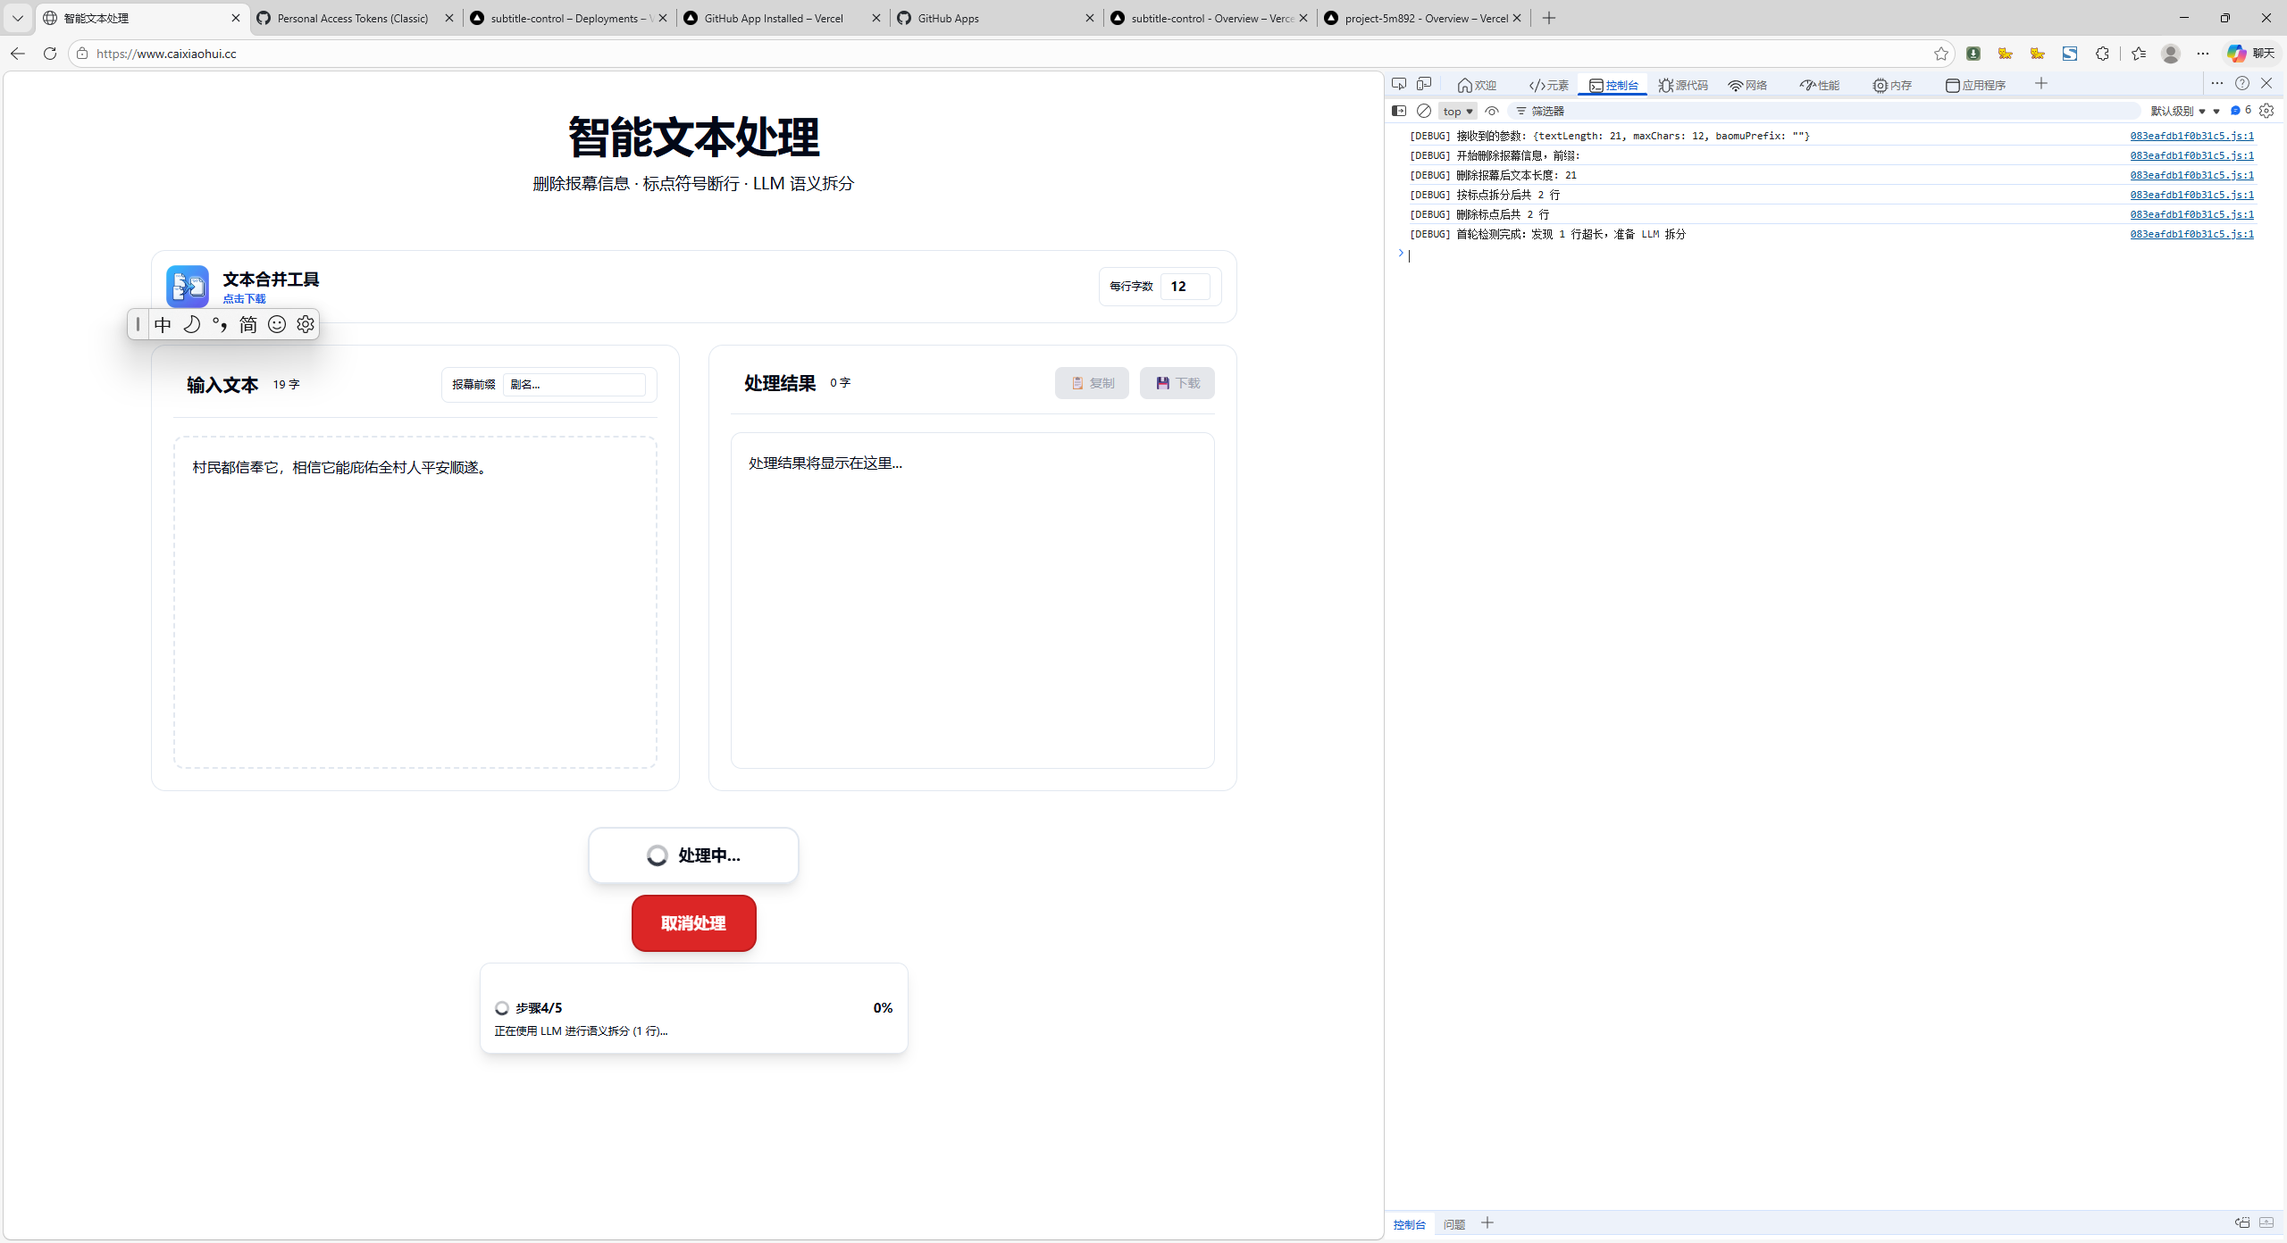
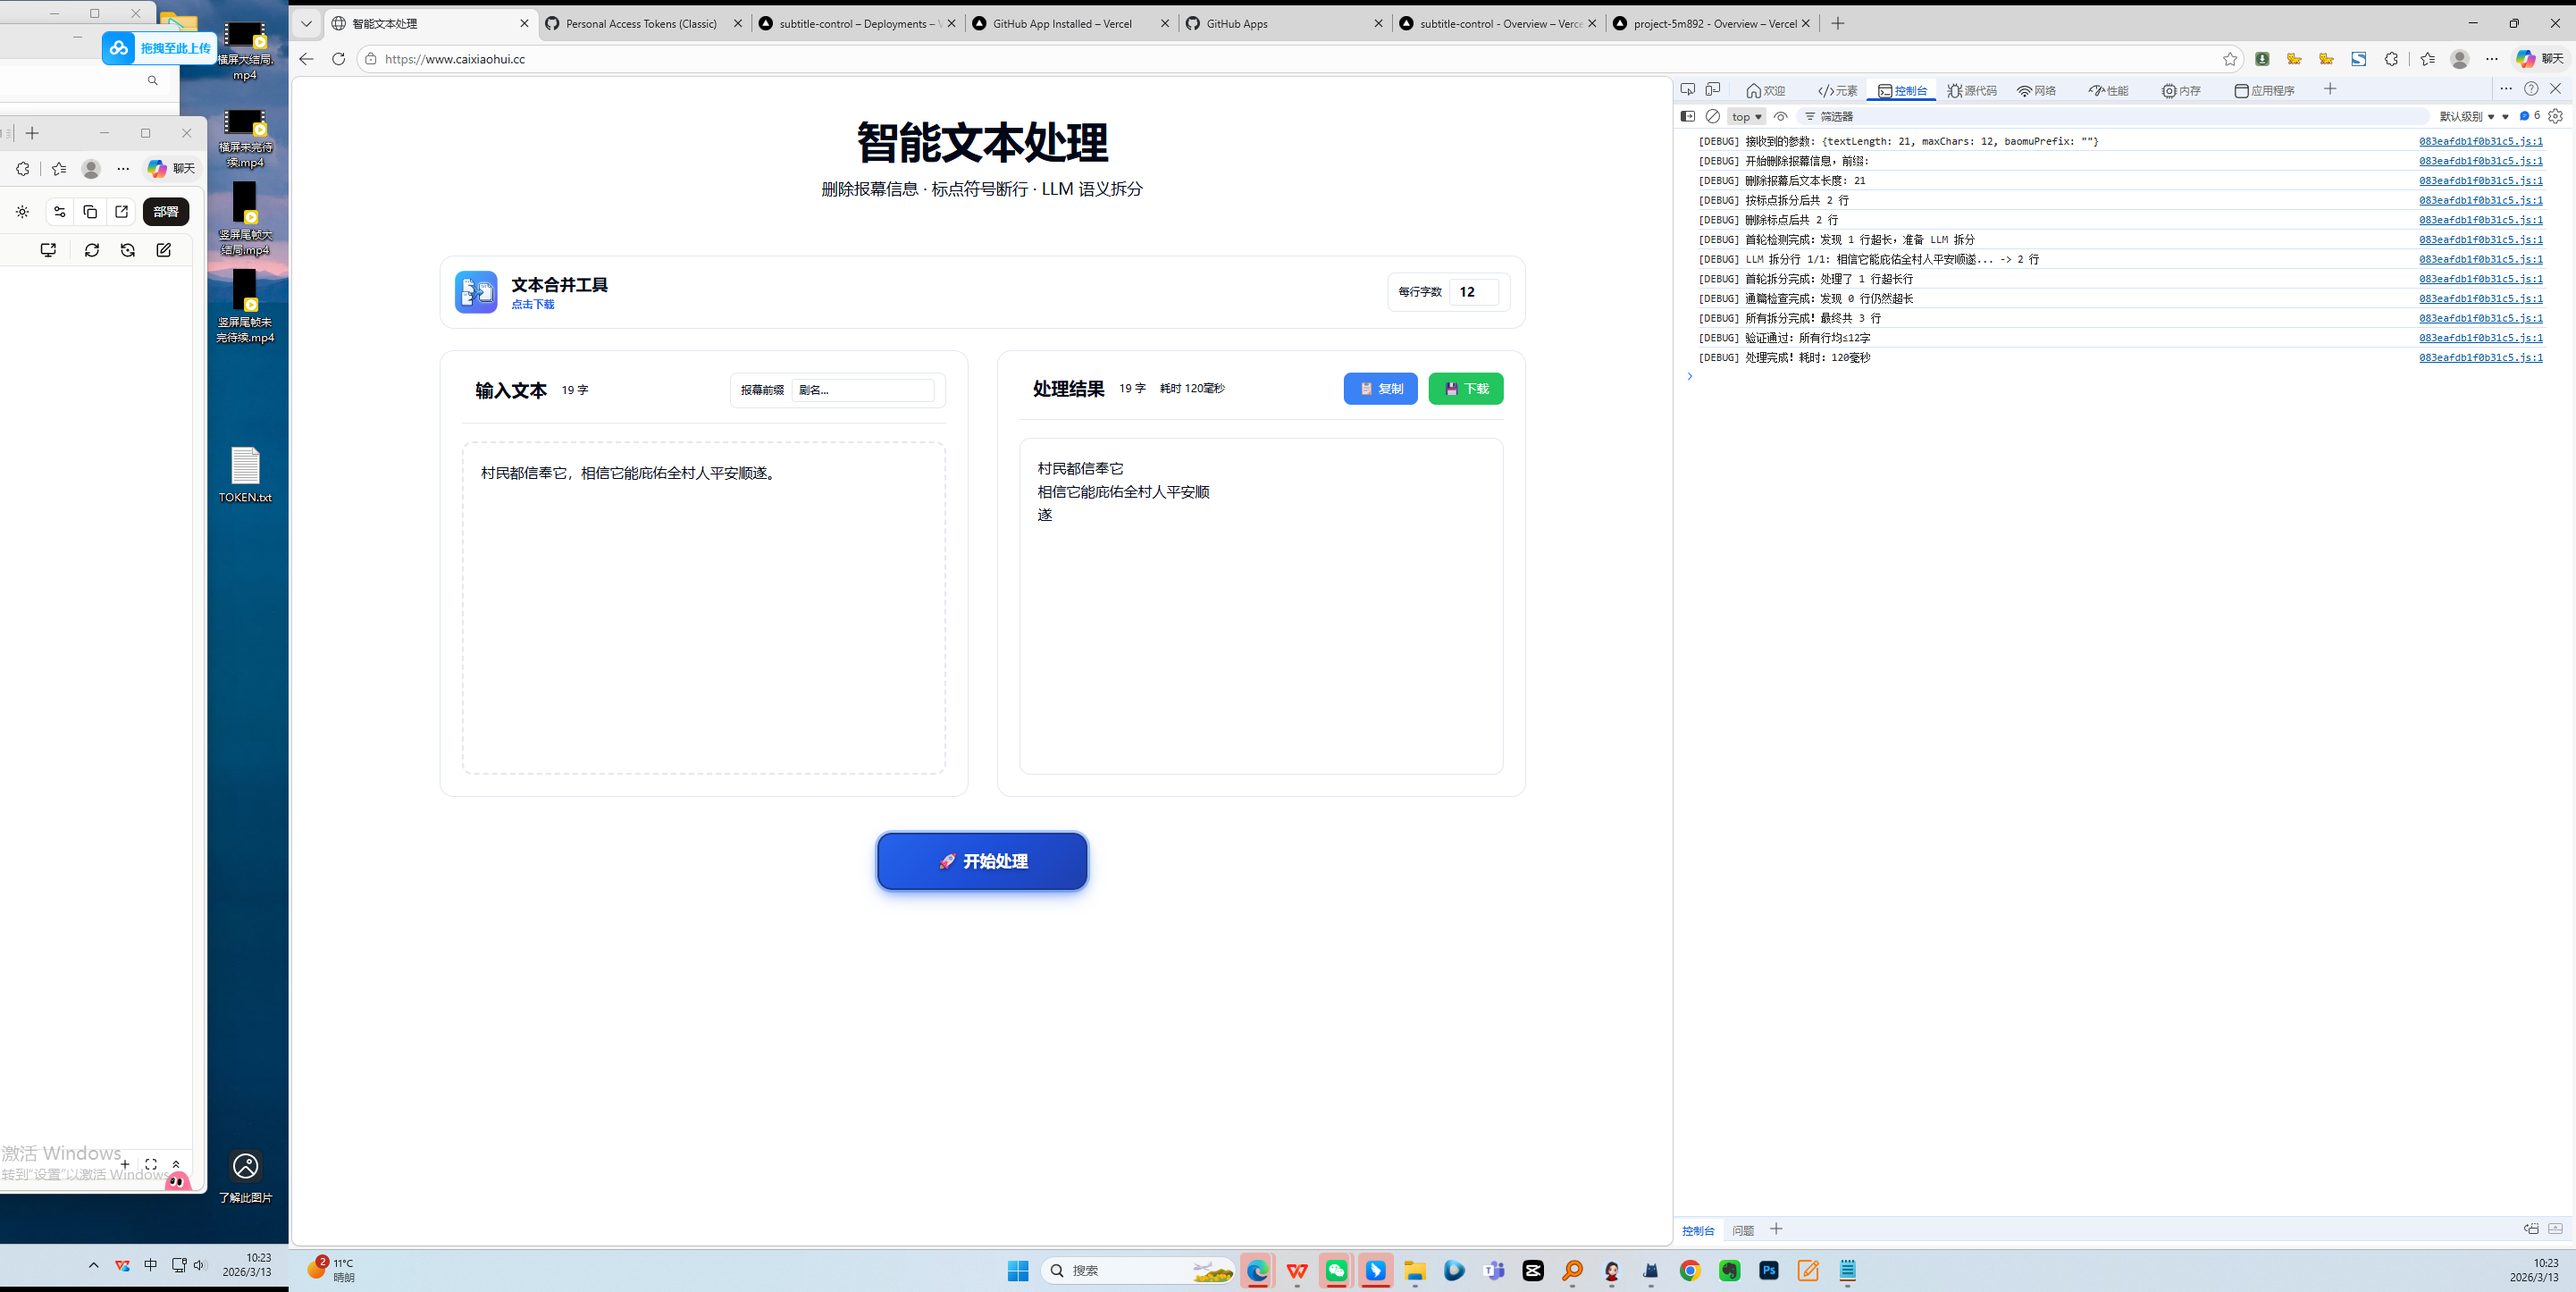
feat: 使用基于规则的语义拆分替代LLM，确保成语保持完整

diff --git a/src/app/api/process/splitByRules.ts b/src/app/api/process/splitByRules.ts
@@ -1,0 +1,175 @@
+// 基于语义规则的拆分算法
+
+// 常见成语和固定短语
+const COMMON_PHRASES = [
+  '平安顺遂', '兴高采烈', '坚持不懈', '恭恭敬敬', '磕了三个头',
+  '救了三个儿童', '对着老槐树', '微微发红', '额头磕得微微发红',
+  '三个头', '三个落水儿童', '见义勇为奖', '获得见义勇为奖',
+  '重生反击', '德国绑架', '内部高息', '理财的名义',
+  '内部高息理财', '林浩手下', '手中的人', '高息理财',
+  '内部高息', '以内部', '高息理财的名义', '磕了三',
+  '个头', '三个', '头', '相信它能', '庇佑全村人',
+  '特意停下脚步', '恭恭敬敬对着', '对着老槐树磕',
+  '老槐树磕了', '磕了三个', '额头磕得', '磕得微微',
+  '微微发红', '村民都信奉它', '相信它能庇佑',
+  '庇佑全村人平安', '全村人平安顺遂'
+];
+
+// 判断是否为中文字符
+function isChinese(char: string): boolean {
+  return /[\u4e00-\u9fa5]/.test(char);
+}
+
+// 统计中文字符数
+function countChineseChars(text: string): number {
+  let count = 0;
+  for (const char of text) {
+    if (isChinese(char)) {
+      count++;
+    }
+  }
+  return count;
+}
+
+// 检查文本是否包含常见成语或短语
+function containsPhrase(text: string): string | null {
+  for (const phrase of COMMON_PHRASES) {
+    if (text.includes(phrase)) {
+      return phrase;
+    }
+  }
+  return null;
+}
+
+// 按语义规则拆分
+export function splitByRules(line: string, maxChars: number): string[] {
+  console.log(`[规则拆分] 开始拆分，文本长度: ${countChineseChars(line)}字，限制: ${maxChars}字`);
+  console.log(`[规则拆分] 文本内容: ${line}`);
+
+  // 如果文本长度 ≤ maxChars，直接返回
+  if (countChineseChars(line) <= maxChars) {
+    console.log(`[规则拆分] 文本未超限，直接返回`);
+    return [line];
+  }
+
+  const result: string[] = [];
+  let remaining = line;
+
+  while (countChineseChars(remaining) > maxChars) {
+    let bestSplitIndex = -1;
+    let bestScore = -Infinity;
+
+    // 策略1：优先在成语边界拆分
+    for (const phrase of COMMON_PHRASES) {
+      const index = remaining.indexOf(phrase);
+      if (index !== -1) {
+        // 尝试在成语之前拆分
+        const before = remaining.substring(0, index);
+        if (countChineseChars(before) > 0 && countChineseChars(before) <= maxChars) {
+          const score = countChineseChars(before);
+          if (score > bestScore) {
+            bestScore = score;
+            bestSplitIndex = index;
+          }
+        }
+      }
+    }
+
+    // 策略2：在语义边界拆分（主谓之间、谓宾之间）
+    if (bestSplitIndex === -1) {
+      // 优先在这些位置拆分：
+      // - 逗号、句号等标点之后
+      // - "的"、"地"、"得"之后
+      // - "了"、"着"、"过"之后
+      const splitChars = ['，', '。', '！', '？', '的', '地', '得', '了', '着', '过', '和', '与', '及'];
+      for (let i = maxChars - 2; i >= 0; i--) {
+        if (splitChars.includes(remaining[i])) {
+          bestSplitIndex = i + 1;
+          break;
+        }
+      }
+    }
+
+    // 策略3：在字符边界拆分（最后手段）
+    if (bestSplitIndex === -1) {
+      bestSplitIndex = maxChars;
+    }
+
+    // 拆分
+    const part = remaining.substring(0, bestSplitIndex);
+    result.push(part);
+    remaining = remaining.substring(bestSplitIndex);
+
+    console.log(`[规则拆分] 拆分: "${part.substring(0, 10)}..." (长度: ${countChineseChars(part)}字)`);
+  }
+
+  // 添加剩余部分
+  if (remaining) {
+    result.push(remaining);
+  }
+
+  console.log(`[规则拆分] 拆分结果: ${JSON.stringify(result)}`);
+
+  // 后处理：检测并修复被拆分的成语
+  const fixedResult = fixSplitPhrases(result, maxChars);
+  console.log(`[规则拆分] 修复后结果: ${JSON.stringify(fixedResult)}`);
+
+  return fixedResult;
+}
+
+// 后处理：检测并修复被拆分的成语和固定短语
+function fixSplitPhrases(lines: string[], maxChars: number): string[] {
+  const result: string[] = [...lines];
+  let fixed = true;
+
+  while (fixed) {
+    fixed = false;
+
+    for (let i = 0; i < result.length - 1; i++) {
+      const currentLine = result[i];
+      const nextLine = result[i + 1];
+      
+      // 检查两行合并后是否包含常见成语或短语
+      const combined = currentLine + nextLine;
+      
+      // 检查是否有常见短语被拆分
+      let foundPhrase = '';
+      for (const phrase of COMMON_PHRASES) {
+        if (combined.includes(phrase)) {
+          foundPhrase = phrase;
+          break;
+        }
+      }
+      
+      if (foundPhrase) {
+        console.log(`[规则拆分] 发现被拆分的短语: "${foundPhrase}"`);
+        console.log(`[规则拆分] 合并前: "${currentLine}" + "${nextLine}"`);
+        
+        // 尝试在短语的边界拆分
+        const phraseIndex = combined.indexOf(foundPhrase);
+        const beforePhrase = combined.substring(0, phraseIndex);
+        const afterPhrase = combined.substring(phraseIndex + foundPhrase.length);
+        
+        // 重新构建结果
+        const newLines: string[] = [];
+        if (beforePhrase) newLines.push(beforePhrase);
+        newLines.push(foundPhrase); // 保持短语完整
+        if (afterPhrase) newLines.push(afterPhrase);
+        
+        // 检查每行是否超过 maxChars
+        const allValid = newLines.every(line => countChineseChars(line) <= maxChars);
+        
+        if (allValid) {
+          console.log(`[规则拆分] 合并后: ${JSON.stringify(newLines)}`);
+          result.splice(i, 2, ...newLines);
+          fixed = true;
+          break;
+        } else {
+          console.log(`[规则拆分] 合并后超出字数限制，跳过`);
+        }
+      }
+    }
+  }
+  
+  return result;
+}

diff --git a/src/app/api/process/route.ts b/src/app/api/process/route.ts
@@ -1,5 +1,6 @@
 import { NextRequest } from 'next/server';
 import { LLMClient, Config, HeaderUtils } from 'coze-coding-dev-sdk';
+import { splitByRules } from './splitByRules';
 
 // 报幕信息正则模式
 const BAOMU_PATTERNS = [
@@ -152,8 +153,21 @@ function optimizeAfterSplit(lines: string[], maxChars: number): string[] {
   return result;
 }
 
-// 使用 LLM 进行语义拆分
+// 使用基于规则的语义拆分（替代 LLM）
+function splitByRulesWrapper(line: string, maxChars: number): string[] {
+  try {
+    return splitByRules(line, maxChars);
+  } catch (error) {
+    console.error('规则拆分失败，使用简单拆分：', error);
+    return simpleSplit(line, maxChars);
+  }
+}
+
+// 使用 LLM 进行语义拆分（已禁用，使用规则拆分替代）
 async function splitWithLLM(line: string, maxChars: number, customHeaders?: Record<string, string>): Promise<string[]> {
+  console.log('[LLM拆分] LLM拆分已禁用，使用规则拆分替代');
+  return splitByRulesWrapper(line, maxChars);
+}
   // 【KY005 修复】检查字数是否超过限制，未超过则直接返回
   const charCount = countChineseChars(line);
   if (charCount <= maxChars) {
